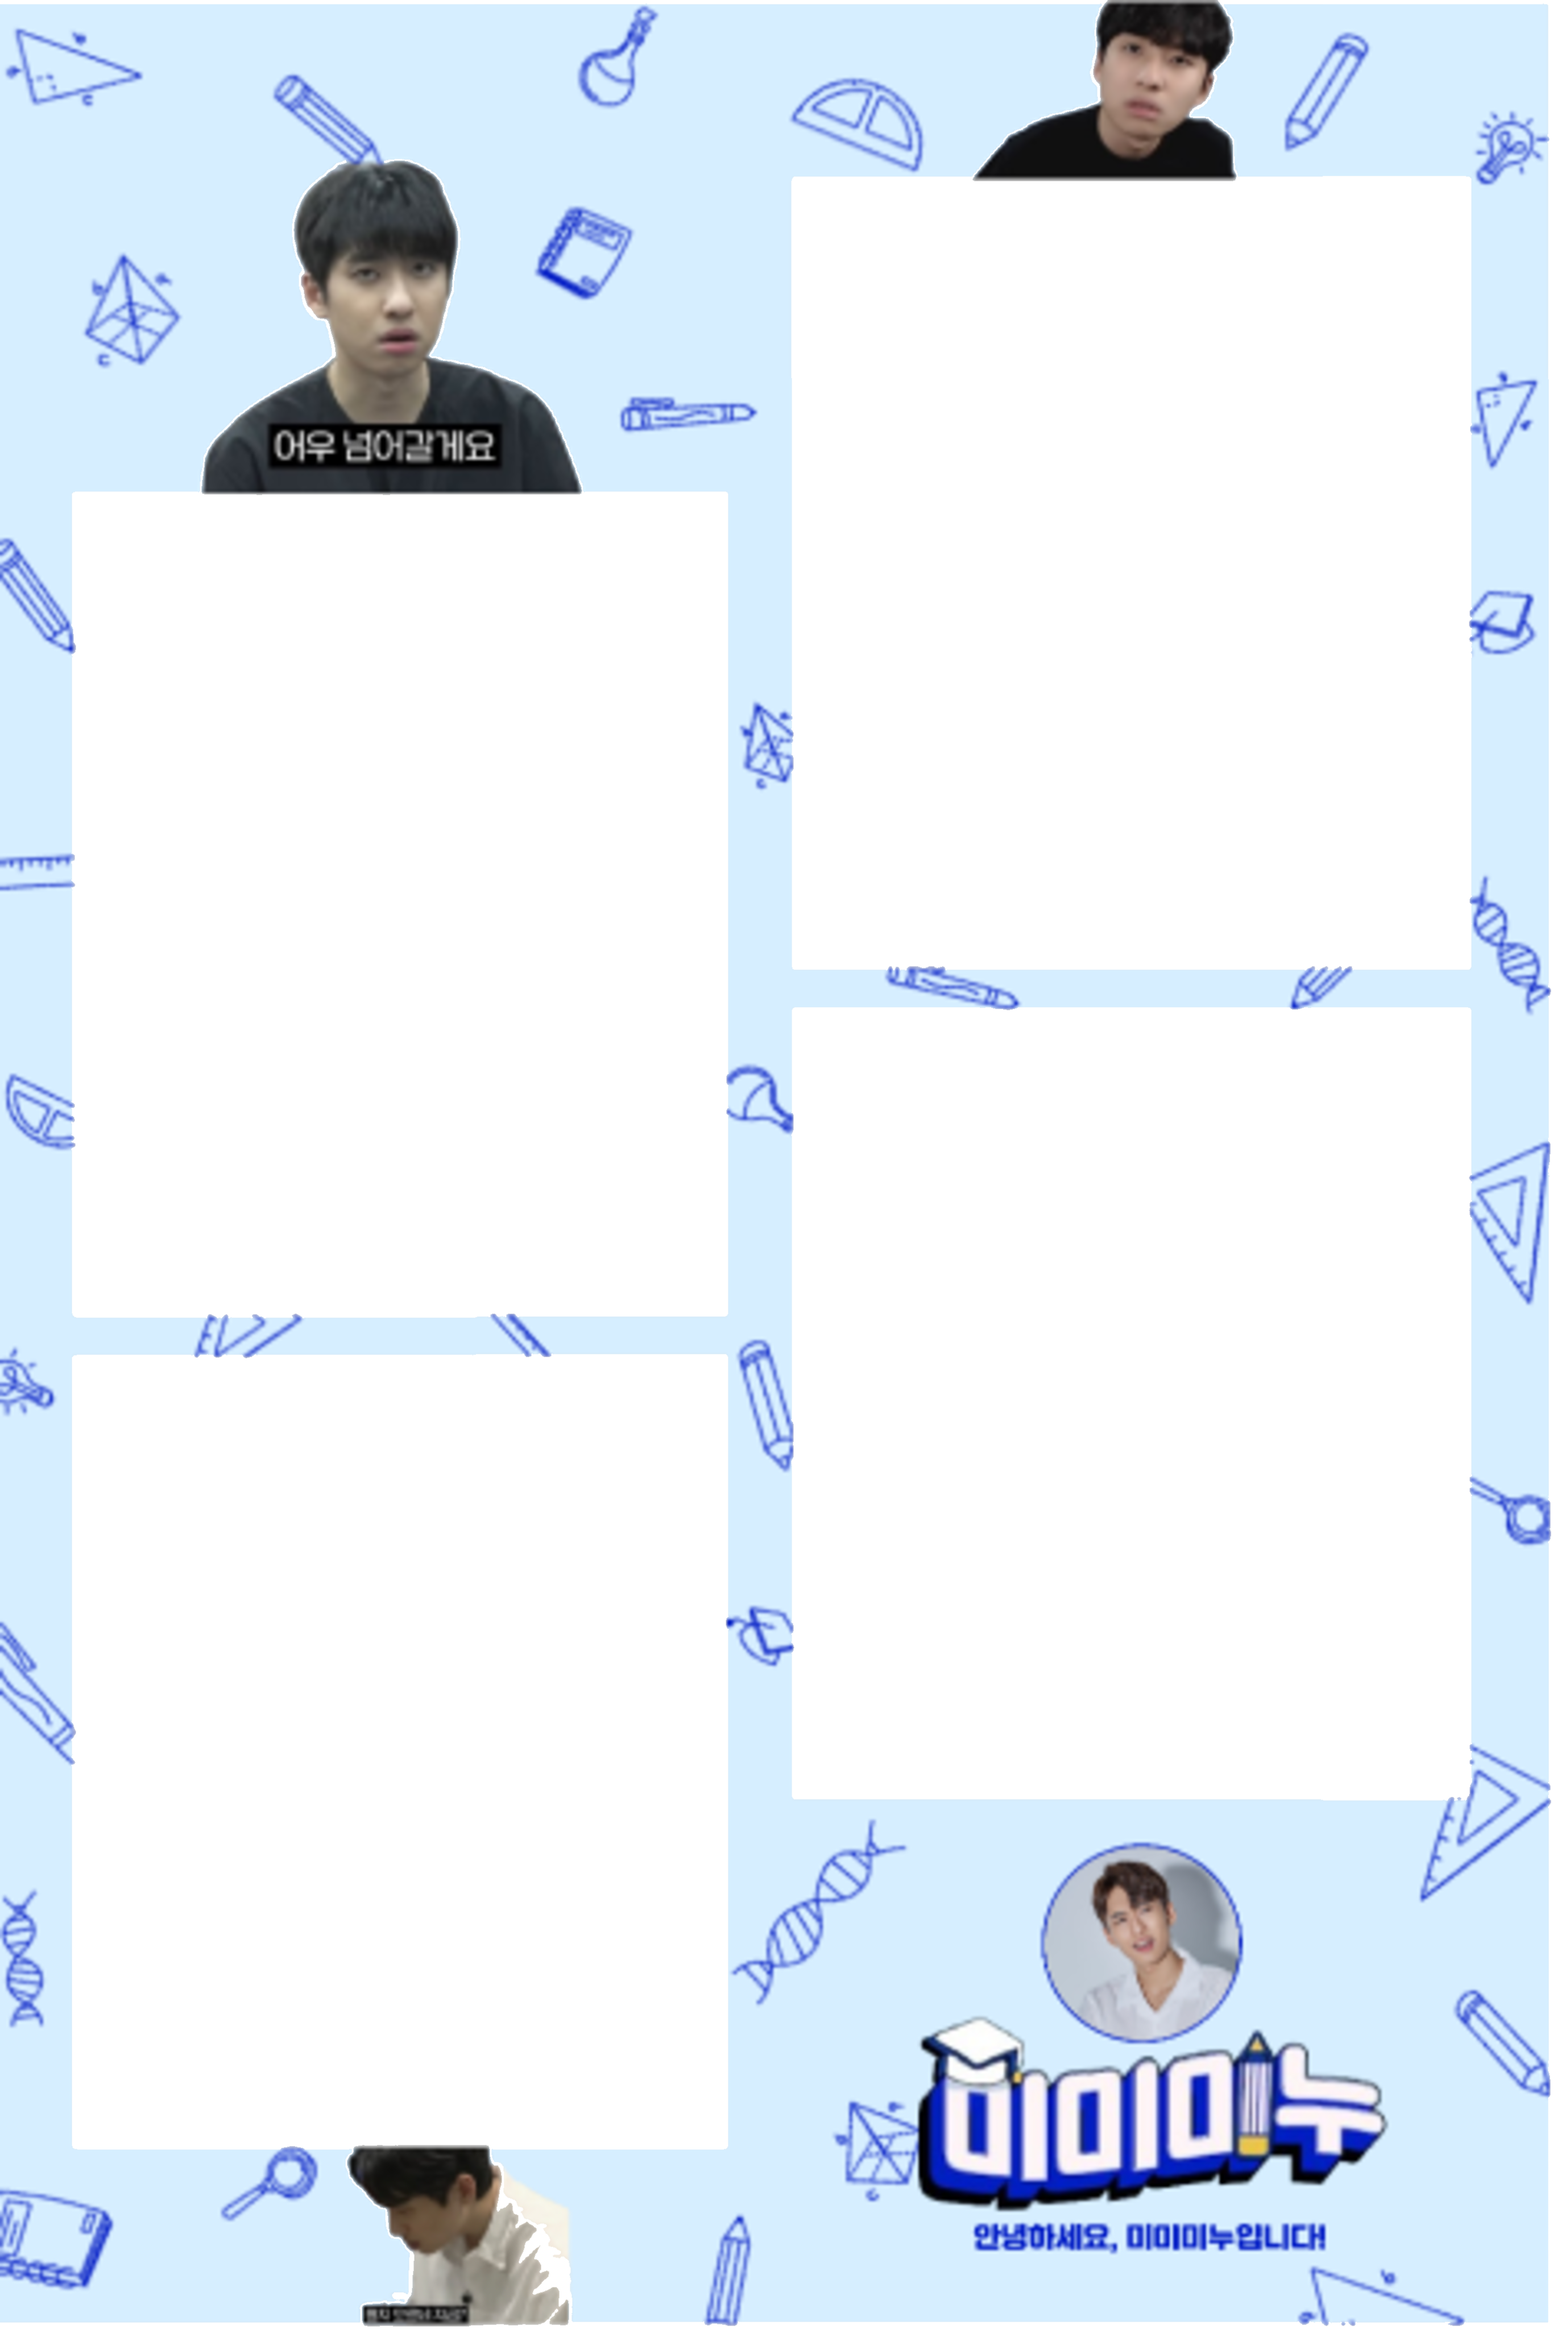
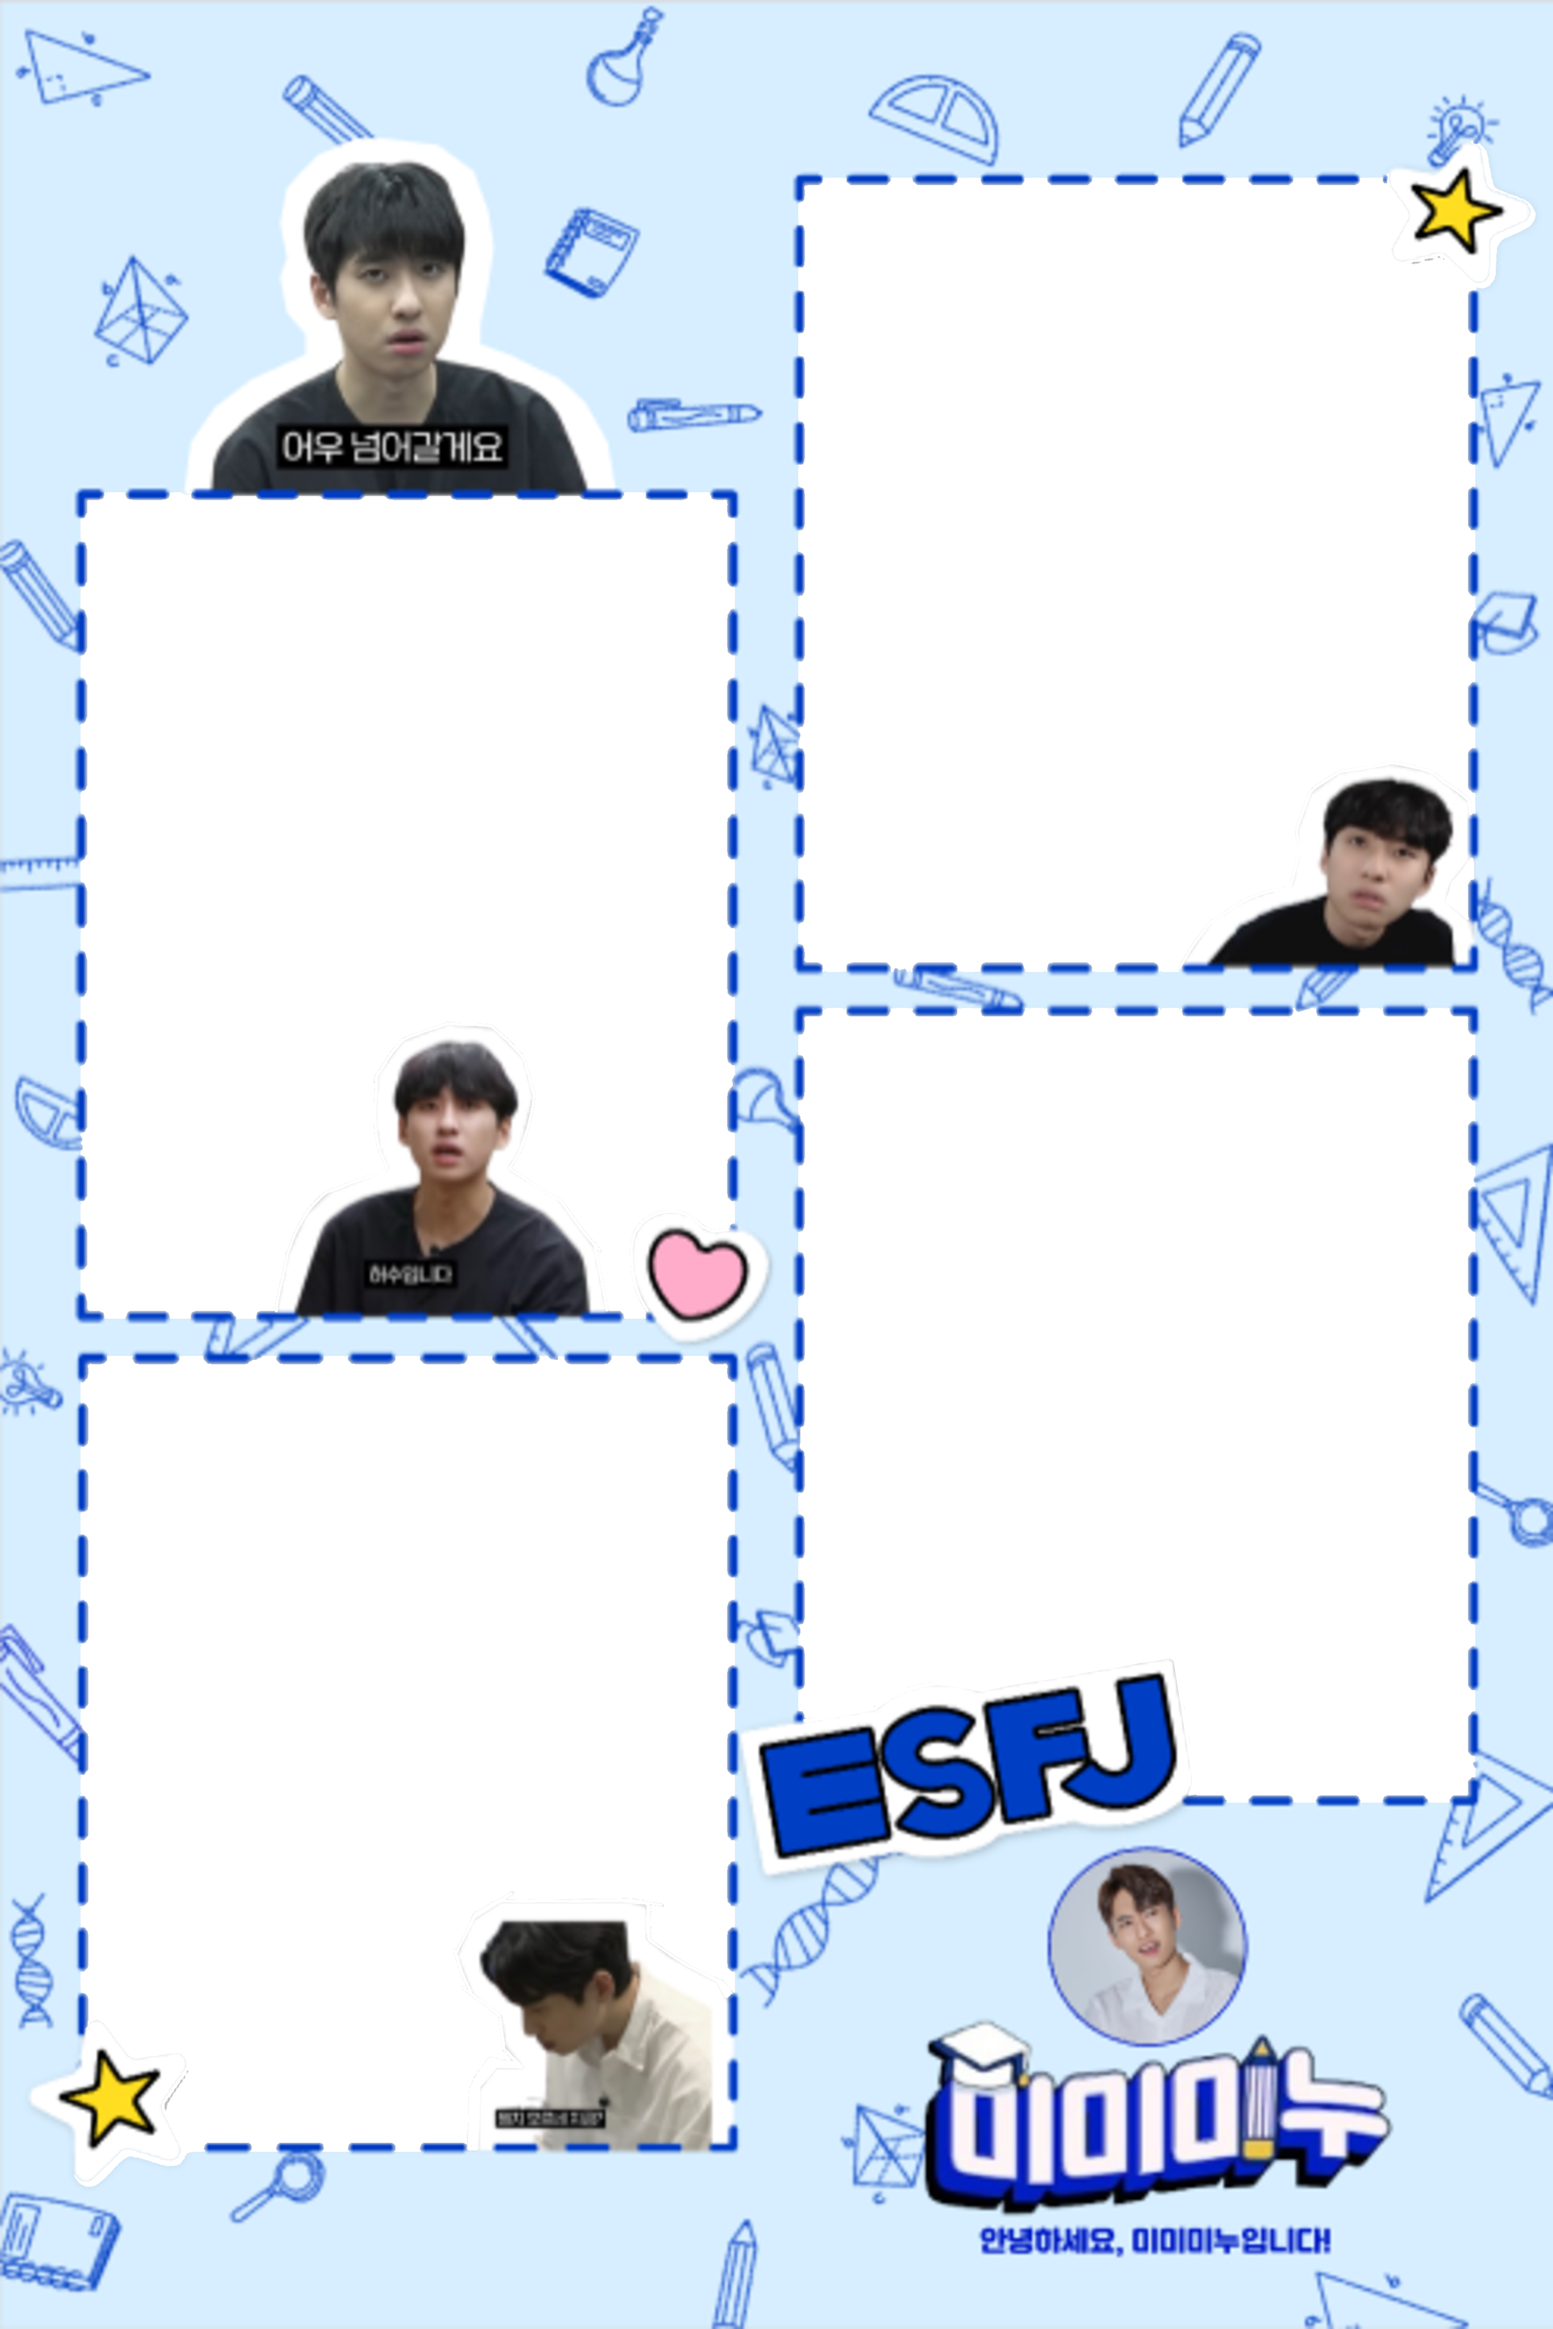
1차수정

diff --git a/front/src/screen/PhotoFrameTest.js b/front/src/screen/PhotoFrameTest.js
@@ -3,36 +3,36 @@ import html2canvas from "html2canvas";
 import "./PhotoFrameTest.css";
 
 const frameLayouts = {
-    pixcel_frame: [
-        { width: 512, height: 712, top: 128, left: 78 },
-        { width: 512, height: 712, top: 128, left: 610 },
-        { width: 512, height: 712, top: 845, left: 78 },
-        { width: 512, height: 712, top: 845, left: 610 },
-    ],
-    light_frame: [
-        { width: 512, height: 712, top: 128, left: 78 },
-        { width: 512, height: 712, top: 128, left: 610 },
-        { width: 512, height: 712, top: 845, left: 78 },
-        { width: 512, height: 712, top: 845, left: 610 },
-    ],
-    dark_frame: [
-        { width: 512, height: 712, top: 128, left: 78 },
-        { width: 512, height: 712, top: 128, left: 610 },
-        { width: 512, height: 712, top: 845, left: 78 },
-        { width: 512, height: 712, top: 845, left: 610 },
-    ],
+    // pixcel_frame: [
+    //     { width: 512, height: 712, top: 128, left: 78 },
+    //     { width: 512, height: 712, top: 128, left: 610 },
+    //     { width: 512, height: 712, top: 845, left: 78 },
+    //     { width: 512, height: 712, top: 845, left: 610 },
+    // ],
+    // light_frame: [
+    //     { width: 512, height: 712, top: 128, left: 78 },
+    //     { width: 512, height: 712, top: 128, left: 610 },
+    //     { width: 512, height: 712, top: 845, left: 78 },
+    //     { width: 512, height: 712, top: 845, left: 610 },
+    // ],
+    // dark_frame: [
+    //     { width: 512, height: 712, top: 128, left: 78 },
+    //     { width: 512, height: 712, top: 128, left: 610 },
+    //     { width: 512, height: 712, top: 845, left: 78 },
+    //     { width: 512, height: 712, top: 845, left: 610 },
+    // ],
     ohpan_frame: [
         { width: 472, height: 652, top: 245, left: 76 },
         { width: 472, height: 652, top: 160, left: 634 },
         { width: 472, height: 652, top: 972, left: 76 },
         { width: 472, height: 652, top: 888, left: 634 },
     ],
-    spam_frame: [
-        { width: 512, height: 712, top: 220, left: 63 },
-        { width: 512, height: 712, top: 137, left: 626 },
-        { width: 512, height: 712, top: 952, left: 63 },
-        { width: 512, height: 712, top: 861, left: 626 },
-    ],
+    // spam_frame: [
+    //     { width: 512, height: 712, top: 220, left: 63 },
+    //     { width: 512, height: 712, top: 137, left: 626 },
+    //     { width: 512, height: 712, top: 952, left: 63 },
+    //     { width: 512, height: 712, top: 861, left: 626 },
+    // ],
     mimi: [
         { width: 524, height: 650, top: 368, left: 61 },
         { width: 524, height: 650, top: 100, left: 616 },

diff --git a/front/src/screen/ChooseScreeen.js b/front/src/screen/ChooseScreeen.js
@@ -21,7 +21,7 @@ const ChooseScreen = ({ selectFrame }) => {
       <h1 className="main-text">FRAME</h1>
       <div className="frame-container">
         <div className="frame-container2">
-          <div
+          {/* <div
             className={`frame-option ${
               selectedFrame === "pixcel_frame" ? "selected" : ""
             }`}
@@ -44,7 +44,7 @@ const ChooseScreen = ({ selectFrame }) => {
             onClick={() => handleFrameSelect("dark_frame")}
           >
             <div className="frame-image dark-frame"></div>
-          </div>
+          </div> */}
           <div
             className={`frame-option ${
               selectedFrame === "ohpan_frame" ? "selected" : ""
@@ -53,14 +53,14 @@ const ChooseScreen = ({ selectFrame }) => {
           >
             <div className="frame-image ohpan-frame"></div>
           </div>
-          <div
+          {/* <div
             className={`frame-option ${
               selectedFrame === "spam_frame" ? "selected" : ""
             }`}
             onClick={() => handleFrameSelect("spam_frame")}
           >
             <div className="frame-image spam-frame"></div>
-          </div>
+          </div> */}
           <div
             className={`frame-option ${
               selectedFrame === "mimi" ? "selected" : ""

diff --git a/front/src/screen/ChooseScreen.css b/front/src/screen/ChooseScreen.css
@@ -72,7 +72,7 @@
 }
 
 /* 각 프레임의 미리보기 이미지 설정 */
-.frame-image.pixcel-frame {
+/* .frame-image.pixcel-frame {
   background-image: url("/public/pixcel_frame.png");
 }
 
@@ -82,15 +82,15 @@
 
 .frame-image.dark-frame {
   background-image: url("/public/dark_frame.png");
-}
+} */
 
 .frame-image.ohpan-frame {
   background-image: url("/public/ohpan_frame.png");
 }
 
-.frame-image.spam-frame {
+/* .frame-image.spam-frame {
   background-image: url("/public/spam_frame.png");
-}
+} */
 
 .frame-image.golangv1-frame {
   background-image: url("/public/mimi.png");
